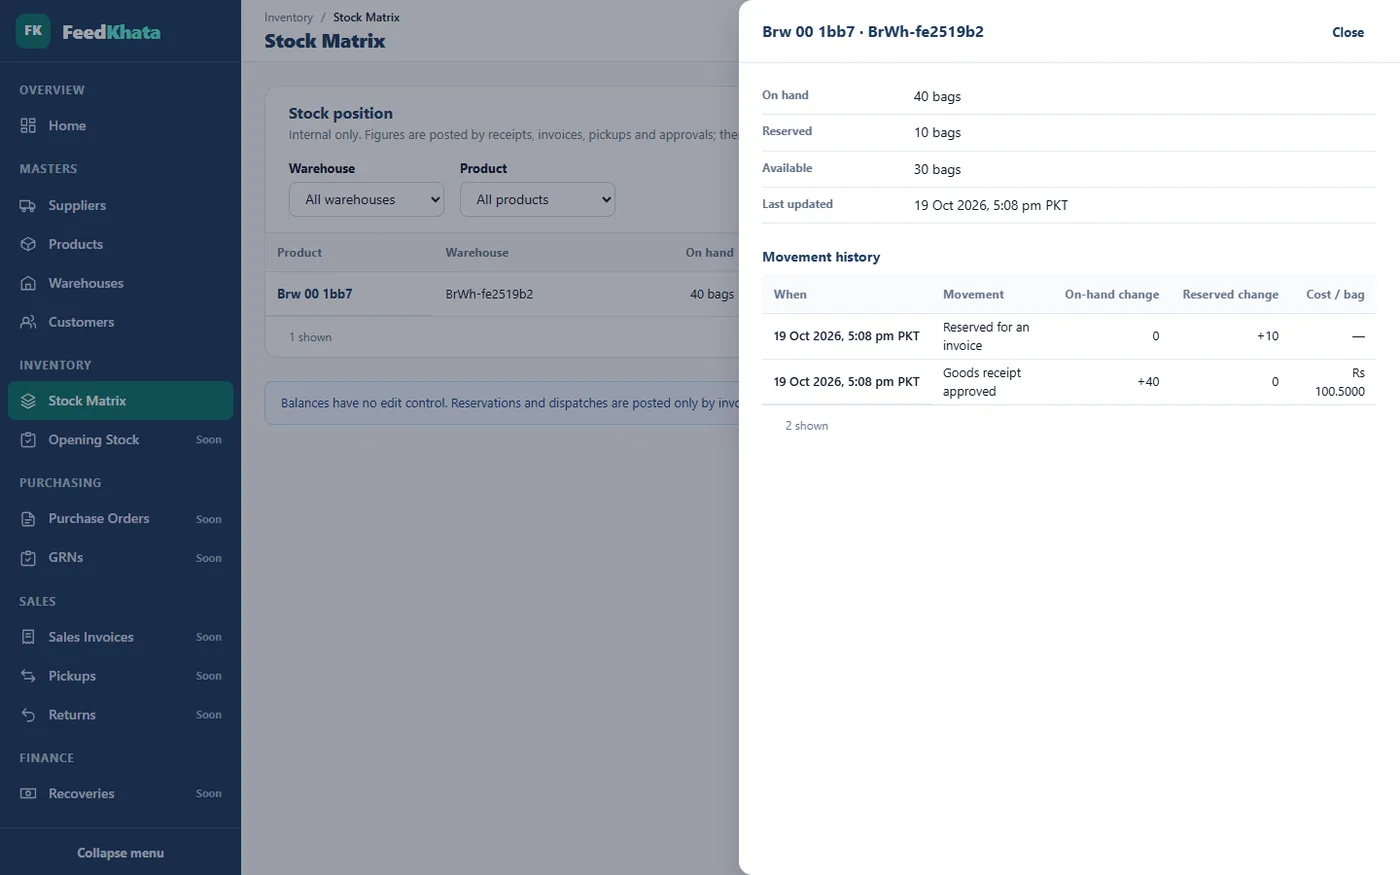
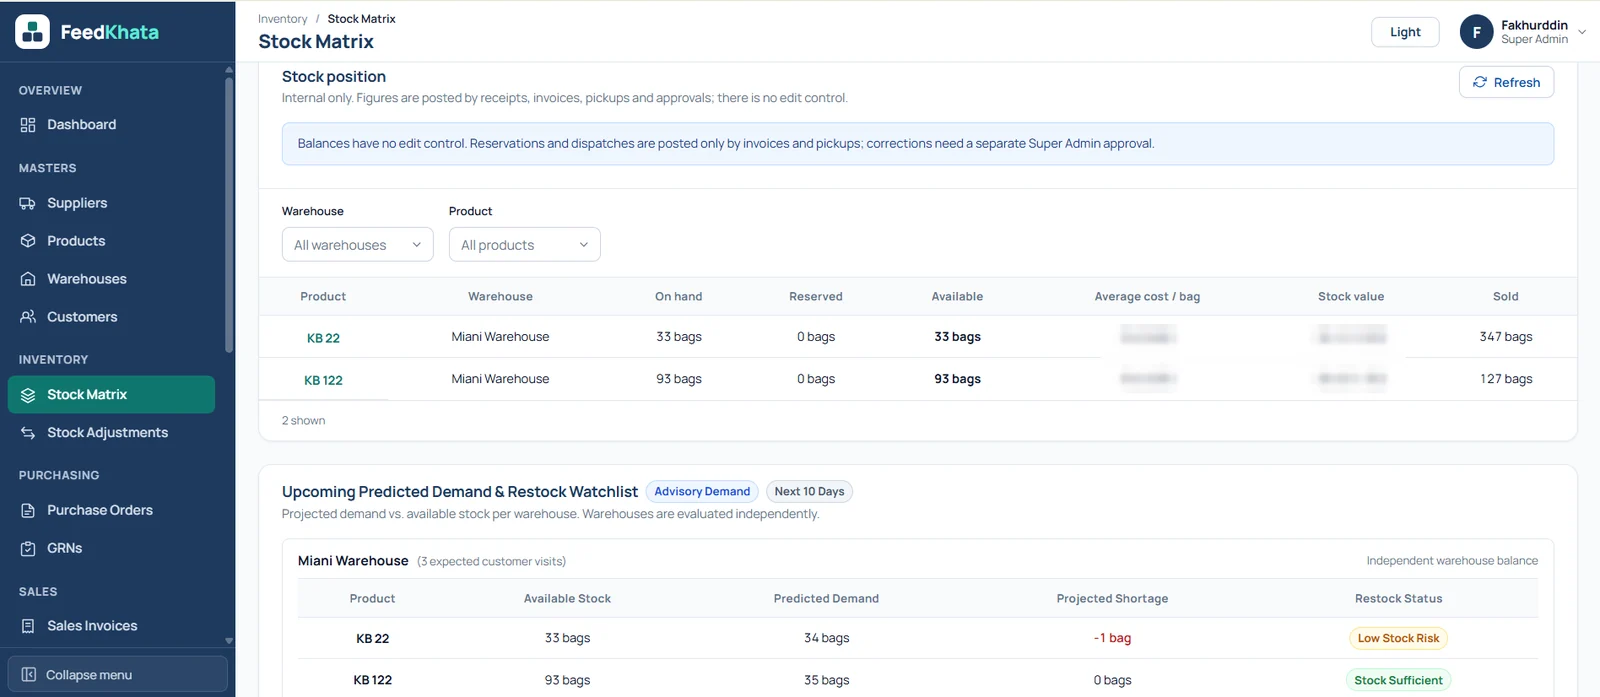
Feed Khata case study: six blurred production screenshots; fix project links
- Hero is now the dashboard; Screens gallery shows Dashboard, Sales invoices,
  Stock matrix, Customer balances, Demand forecast and Reports
- Customer names and all rupee amounts are pixel-blurred (irreversible);
  old test-data screenshots removed
- Projects: remove Code/View buttons that pointed to LinkedIn (no public
  repo or dashboard exists); churn repo link uses the exact repo name

Claude-Session: https://claude.ai/code/session_01QkNVotbg1L3T7W9xWGsYEF

diff --git a/work/feed-khata/index.html b/work/feed-khata/index.html
@@ -38,13 +38,13 @@
           <p class="cs-hero__summary">Back-office software for feed traders: stock, sales, payments and demand forecasts in one place.</p>
         </div>
         <dl class="cs-meta"><div><dt>Role</dt><dd>Founder &amp; developer</dd></div><div><dt>Timeline</dt><dd>Oct 2026 — present</dd></div><div><dt>Platform</dt><dd>Web app</dd></div><div><dt>Users</dt><dd>A feed-trading business</dd></div></dl>
-        <div class="cs-visual cs-visual--desk"><div class="cs-browser"><div class="cs-browser__bar"><span></span><span></span><span></span></div><img src="../../Images/products/feedkhata/invoice.webp" alt="Feed Khata sales invoice screen" loading="eager"></div></div>
+        <div class="cs-visual cs-visual--desk"><div class="cs-browser"><div class="cs-browser__bar"><span></span><span></span><span></span></div><img src="../../Images/products/feedkhata/dashboard.webp" alt="Feed Khata dashboard with stock, sales and overdue customers" loading="eager"></div></div>
       </section>
 
       <section class="cs-section"><h2>Overview</h2><div class="cs-overview"><div><h3>The problem</h3><p>A feed-trading business has to keep stock, credit sales, payments and approvals in sync every day.</p></div><div><h3>The solution</h3><p>One system covers purchasing to payment, holds stock for each invoice and forecasts what to restock.</p></div><div class="is-role"><h3>My role</h3><p>Product design, full-stack development and rollout to daily use with the business.</p></div></div></section>
       <section class="cs-section"><h2>Six connected modules</h2><div class="cs-grid cs-grid--3"><div class="cs-card"><h3>Purchasing</h3><p>Purchase orders and goods received notes.</p></div><div class="cs-card"><h3>Inventory</h3><p>Stock per location, every movement traced.</p></div><div class="cs-card"><h3>Sales &amp; pickups</h3><p>Invoices reserve stock until it is collected.</p></div><div class="cs-card"><h3>Finance</h3><p>Payments, customer balances and expenses.</p></div><div class="cs-card"><h3>Approvals</h3><p>Returns and adjustments need sign-off.</p></div><div class="cs-card"><h3>Reports</h3><p>Business reports with a full audit trail.</p></div></div></section>
       <section class="cs-section"><h2>How it works</h2><div class="cs-flow"><h3>Demand forecasting</h3><div class="cs-steps"><div class="cs-step"><b>History</b><span>Sales and visit records</span></div><div class="cs-arrow" aria-hidden="true"><i class="ri-arrow-right-line"></i></div><div class="cs-step"><b>Cadence</b><span>How often each customer returns</span></div><div class="cs-arrow" aria-hidden="true"><i class="ri-arrow-right-line"></i></div><div class="cs-step"><b>Trend + season</b><span>Learned from the business’s own data</span></div><div class="cs-arrow" aria-hidden="true"><i class="ri-arrow-right-line"></i></div><div class="cs-step is-key"><b>Forecast</b><span>With accuracy tracked per product</span></div></div><p>AI can explain a forecast in plain words; it never changes the numbers.</p></div></section>
-      <section class="cs-section"><h2>Screens</h2><div class="cs-marq"><div class="cs-marq__track"><div class="cs-marq__set"><figure class="cs-shot cs-shot--desk"><img src="../../Images/products/feedkhata/invoice.webp" alt="Sales invoice" loading="lazy"><figcaption>Sales invoice</figcaption></figure><figure class="cs-shot cs-shot--desk"><img src="../../Images/products/feedkhata/stock.webp" alt="Stock movements" loading="lazy"><figcaption>Stock movements</figcaption></figure><figure class="cs-shot cs-shot--desk"><img src="../../Images/products/feedkhata/reports.webp" alt="Reports" loading="lazy"><figcaption>Reports</figcaption></figure><figure class="cs-shot cs-shot--desk"><img src="../../Images/products/feedkhata/invoice.webp" alt="" loading="lazy"><figcaption>Sales invoice</figcaption></figure><figure class="cs-shot cs-shot--desk"><img src="../../Images/products/feedkhata/stock.webp" alt="" loading="lazy"><figcaption>Stock movements</figcaption></figure><figure class="cs-shot cs-shot--desk"><img src="../../Images/products/feedkhata/reports.webp" alt="" loading="lazy"><figcaption>Reports</figcaption></figure></div><div class="cs-marq__set" aria-hidden="true"><figure class="cs-shot cs-shot--desk"><img src="../../Images/products/feedkhata/invoice.webp" alt="" loading="lazy"><figcaption>Sales invoice</figcaption></figure><figure class="cs-shot cs-shot--desk"><img src="../../Images/products/feedkhata/stock.webp" alt="" loading="lazy"><figcaption>Stock movements</figcaption></figure><figure class="cs-shot cs-shot--desk"><img src="../../Images/products/feedkhata/reports.webp" alt="" loading="lazy"><figcaption>Reports</figcaption></figure><figure class="cs-shot cs-shot--desk"><img src="../../Images/products/feedkhata/invoice.webp" alt="" loading="lazy"><figcaption>Sales invoice</figcaption></figure><figure class="cs-shot cs-shot--desk"><img src="../../Images/products/feedkhata/stock.webp" alt="" loading="lazy"><figcaption>Stock movements</figcaption></figure><figure class="cs-shot cs-shot--desk"><img src="../../Images/products/feedkhata/reports.webp" alt="" loading="lazy"><figcaption>Reports</figcaption></figure></div></div></div></section>
+      <section class="cs-section"><h2>Screens</h2><div class="cs-marq"><div class="cs-marq__track"><div class="cs-marq__set"><figure class="cs-shot cs-shot--desk"><img src="../../Images/products/feedkhata/dashboard.webp" alt="Dashboard" loading="lazy"><figcaption>Dashboard</figcaption></figure><figure class="cs-shot cs-shot--desk"><img src="../../Images/products/feedkhata/invoices.webp" alt="Sales invoices" loading="lazy"><figcaption>Sales invoices</figcaption></figure><figure class="cs-shot cs-shot--desk"><img src="../../Images/products/feedkhata/stock.webp" alt="Stock matrix" loading="lazy"><figcaption>Stock matrix</figcaption></figure><figure class="cs-shot cs-shot--desk"><img src="../../Images/products/feedkhata/recoveries.webp" alt="Customer balances" loading="lazy"><figcaption>Customer balances</figcaption></figure><figure class="cs-shot cs-shot--desk"><img src="../../Images/products/feedkhata/forecast.webp" alt="Demand forecast" loading="lazy"><figcaption>Demand forecast</figcaption></figure><figure class="cs-shot cs-shot--desk"><img src="../../Images/products/feedkhata/reports.webp" alt="Reports" loading="lazy"><figcaption>Reports</figcaption></figure><figure class="cs-shot cs-shot--desk"><img src="../../Images/products/feedkhata/dashboard.webp" alt="" loading="lazy"><figcaption>Dashboard</figcaption></figure><figure class="cs-shot cs-shot--desk"><img src="../../Images/products/feedkhata/invoices.webp" alt="" loading="lazy"><figcaption>Sales invoices</figcaption></figure><figure class="cs-shot cs-shot--desk"><img src="../../Images/products/feedkhata/stock.webp" alt="" loading="lazy"><figcaption>Stock matrix</figcaption></figure><figure class="cs-shot cs-shot--desk"><img src="../../Images/products/feedkhata/recoveries.webp" alt="" loading="lazy"><figcaption>Customer balances</figcaption></figure><figure class="cs-shot cs-shot--desk"><img src="../../Images/products/feedkhata/forecast.webp" alt="" loading="lazy"><figcaption>Demand forecast</figcaption></figure><figure class="cs-shot cs-shot--desk"><img src="../../Images/products/feedkhata/reports.webp" alt="" loading="lazy"><figcaption>Reports</figcaption></figure></div><div class="cs-marq__set" aria-hidden="true"><figure class="cs-shot cs-shot--desk"><img src="../../Images/products/feedkhata/dashboard.webp" alt="" loading="lazy"><figcaption>Dashboard</figcaption></figure><figure class="cs-shot cs-shot--desk"><img src="../../Images/products/feedkhata/invoices.webp" alt="" loading="lazy"><figcaption>Sales invoices</figcaption></figure><figure class="cs-shot cs-shot--desk"><img src="../../Images/products/feedkhata/stock.webp" alt="" loading="lazy"><figcaption>Stock matrix</figcaption></figure><figure class="cs-shot cs-shot--desk"><img src="../../Images/products/feedkhata/recoveries.webp" alt="" loading="lazy"><figcaption>Customer balances</figcaption></figure><figure class="cs-shot cs-shot--desk"><img src="../../Images/products/feedkhata/forecast.webp" alt="" loading="lazy"><figcaption>Demand forecast</figcaption></figure><figure class="cs-shot cs-shot--desk"><img src="../../Images/products/feedkhata/reports.webp" alt="" loading="lazy"><figcaption>Reports</figcaption></figure><figure class="cs-shot cs-shot--desk"><img src="../../Images/products/feedkhata/dashboard.webp" alt="" loading="lazy"><figcaption>Dashboard</figcaption></figure><figure class="cs-shot cs-shot--desk"><img src="../../Images/products/feedkhata/invoices.webp" alt="" loading="lazy"><figcaption>Sales invoices</figcaption></figure><figure class="cs-shot cs-shot--desk"><img src="../../Images/products/feedkhata/stock.webp" alt="" loading="lazy"><figcaption>Stock matrix</figcaption></figure><figure class="cs-shot cs-shot--desk"><img src="../../Images/products/feedkhata/recoveries.webp" alt="" loading="lazy"><figcaption>Customer balances</figcaption></figure><figure class="cs-shot cs-shot--desk"><img src="../../Images/products/feedkhata/forecast.webp" alt="" loading="lazy"><figcaption>Demand forecast</figcaption></figure><figure class="cs-shot cs-shot--desk"><img src="../../Images/products/feedkhata/reports.webp" alt="" loading="lazy"><figcaption>Reports</figcaption></figure></div></div></div></section>
       <section class="cs-section"><h2>Tech stack</h2><div class="cs-tags"><span class="rd-tag" style="--b: #5A9BE6; --bl: #2075D7;">TypeScript</span><span class="rd-tag" style="--b: #61DAFB; --bl: #047EA0;">React</span><span class="rd-tag" style="--b: #F0607C; --bl: #E8153E;">NestJS</span><span class="rd-tag" style="--b: #7BA7D9; --bl: #3777C0;">PostgreSQL</span><span class="rd-tag" style="--b: #8AB4F8; --bl: #2070F1;">Gemini API</span><span class="rd-tag" style="--b: #E08A6A; --bl: #C55329;">Claude Code</span></div></section>
       <section class="cs-section"><h2>Challenges solved</h2><div class="cs-grid cs-grid--3"><div class="cs-card"><h3>Stock that stays right</h3><p>Each invoice reserves its bags in one step, so two sales can never take the same stock.</p></div><div class="cs-card"><h3>Changes with sign-off</h3><p>Returns and stock adjustments go through approval, keeping the books trustworthy.</p></div><div class="cs-card"><h3>Forecasts people trust</h3><p>Clear statistics produce the numbers; AI only explains them.</p></div></div></section>
 

diff --git a/index.html b/index.html
@@ -118,7 +118,7 @@
                 <div class="project-row__header">
                   <div class="rd-card__title"><span class="rd-logo" style="background: #E11D48;"><svg width="17" height="17" viewBox="0 0 24 24" fill="none" stroke="#FFFFFF" stroke-width="2.1" stroke-linecap="round" stroke-linejoin="round" aria-hidden="true"><circle cx="9" cy="8" r="4"></circle><path d="M2 21v-1a7 7 0 0 1 11.5-5.4"></path><line x1="16" y1="18" x2="22" y2="18"></line></svg></span><h3 class="project-row__title">Customer Churn Predictor</h3></div>
                   <div class="project-row__actions">
-                    <a href="https://github.com/fakhurddin/telco_churn_prediction" target="_blank" rel="noopener noreferrer" class="btn btn--secondary btn--sm">
+                    <a href="https://github.com/fakhurddin/Telco_Churn_Prediction" target="_blank" rel="noopener noreferrer" class="btn btn--secondary btn--sm">
                       <i class="ri-github-line" aria-hidden="true"></i>Code
                     </a>
                     <a href="https://telcochurnprediction-rphdf9uthz5k9pwdtai8y8.streamlit.app/" target="_blank" rel="noopener noreferrer" class="btn btn--primary btn--sm">
@@ -143,14 +143,6 @@
               <div class="project-row">
                 <div class="project-row__header">
                   <div class="rd-card__title"><span class="rd-logo" style="background: #F2C811;"><svg width="17" height="17" viewBox="0 0 24 24" fill="none" stroke="#1C1917" stroke-width="2.1" stroke-linecap="round" stroke-linejoin="round" aria-hidden="true"><path d="M21.2 15.9A10 10 0 1 1 8 2.8"></path><path d="M22 12A10 10 0 0 0 12 2v10z"></path></svg></span><h3 class="project-row__title">Investment Portfolio Tracker</h3></div>
-                  <div class="project-row__actions">
-                    <a href="https://www.linkedin.com/in/fakhurddin-junejo-65a127386/" target="_blank" rel="noopener noreferrer" class="btn btn--secondary btn--sm">
-                      <i class="ri-github-line" aria-hidden="true"></i>Code
-                    </a>
-                    <a href="https://www.linkedin.com/in/fakhurddin-junejo-65a127386/" target="_blank" rel="noopener noreferrer" class="btn btn--primary btn--sm">
-                      <i class="ri-external-link-line" aria-hidden="true"></i>View
-                    </a>
-                  </div>
                 </div>
                 <p class="project-row__desc">
                   Power BI dashboard for a wealth management firm — real-time portfolio performance tracking and risk assessment.
@@ -169,14 +161,6 @@
               <div class="project-row">
                 <div class="project-row__header">
                   <div class="rd-card__title"><span class="rd-logo" style="background: #E8762B;"><svg width="17" height="17" viewBox="0 0 24 24" fill="none" stroke="#FFFFFF" stroke-width="2.1" stroke-linecap="round" stroke-linejoin="round" aria-hidden="true"><circle cx="9" cy="20" r="1.5"></circle><circle cx="18" cy="20" r="1.5"></circle><path d="M2 3h3l2.7 12.4a2 2 0 0 0 2 1.6h8.6a2 2 0 0 0 2-1.6L22 7H6"></path></svg></span><h3 class="project-row__title">E-Commerce Analytics Suite</h3></div>
-                  <div class="project-row__actions">
-                    <a href="https://www.linkedin.com/in/fakhurddin-junejo-65a127386/" target="_blank" rel="noopener noreferrer" class="btn btn--secondary btn--sm">
-                      <i class="ri-github-line" aria-hidden="true"></i>Code
-                    </a>
-                    <a href="https://www.linkedin.com/in/fakhurddin-junejo-65a127386/" target="_blank" rel="noopener noreferrer" class="btn btn--primary btn--sm">
-                      <i class="ri-external-link-line" aria-hidden="true"></i>View
-                    </a>
-                  </div>
                 </div>
                 <p class="project-row__desc">
                   Tableau dashboard suite tracking sales, customer behavior, and marketing campaign performance for an online retailer.
